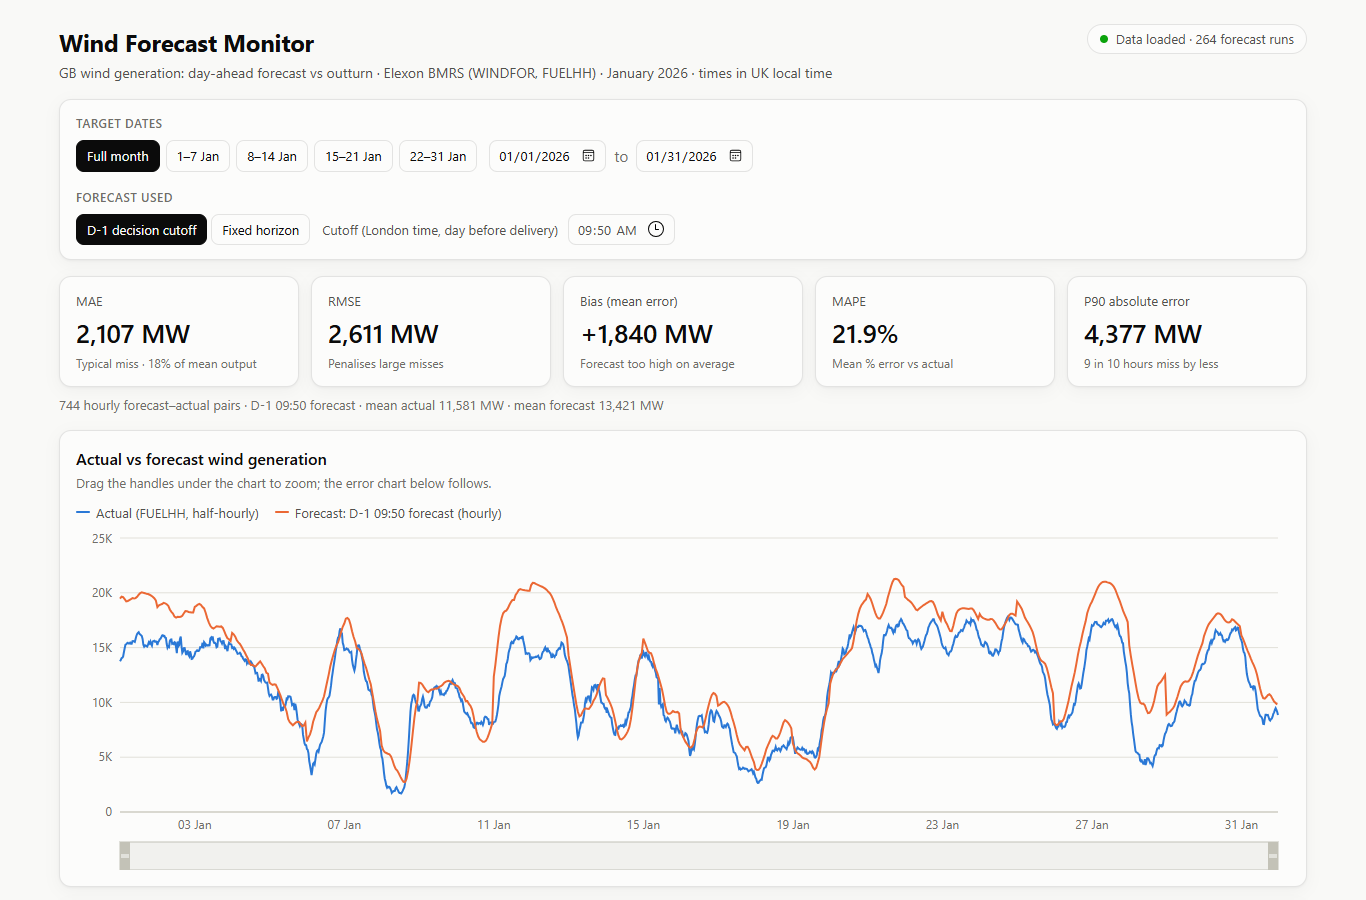
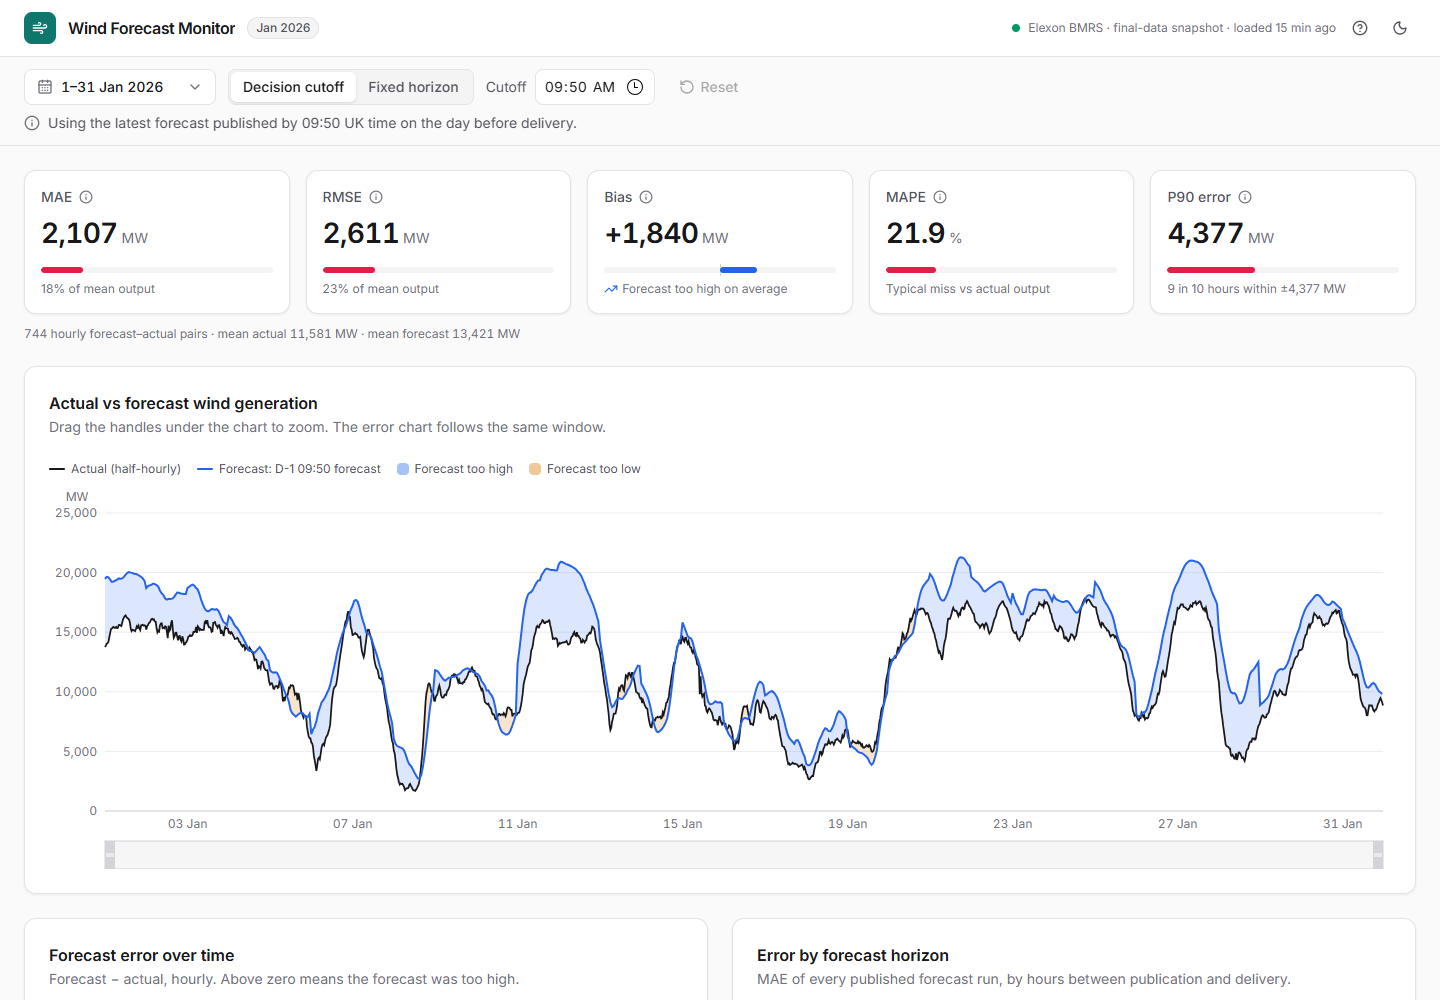
Update README for redesign, test suites, caching and Vercel deploy
Documents the dashboard, the e2e and Elexon verification suites, Lighthouse
results, the single-project Vercel setup (not yet deployed) and the new
environment variables; refreshes the screenshot. Excludes Playwright
artifacts from the frontend Docker context.

diff --git a/README.md b/README.md
@@ -17,6 +17,8 @@ Day-ahead power is bought on D-1 for delivery on day D. Wind output is the bigge
 1. **What did the wind forecast say when we had to decide?** (not a later, better forecast we could not have used)
 2. **How much can we trust it?** Typical error, bias, worst-case misses, and how error grows with lead time.
 
+The dashboard has a sticky filter bar (January-only date range, decision cutoff or fixed horizon, with a one-line summary of the active rule), five KPI cards with plain-English tooltips, an actual-vs-forecast hero chart with a shaded over/under band and brush zoom, error-over-time and error-by-lead-time charts, key insights, and a sortable, heat-shaded daily table with CSV export. Filters live in the URL, so views can be shared. Light and dark themes are available, and the layout works down to 375 px.
+
 ## 2. Decision-time logic
 
 **Data (Elexon BMRS, no other sources)**
@@ -59,32 +61,38 @@ Metrics are computed overall, per day (London date) and per lead-time bucket. Th
 
 ```
 .
-├── backend/                  FastAPI service (Python 3.11)
+├── api/index.py              Vercel Python entrypoint (serves backend/app for /api/*)
+├── backend/                  FastAPI service (Python 3.11+)
 │   ├── app/
-│   │   ├── main.py           Routes, validation, CORS, error handling
+│   │   ├── main.py           Routes, validation, CORS, gzip, Cache-Control, error handling
 │   │   ├── config.py         Settings (env vars) and fixed Jan-2026 scope
 │   │   ├── elexon.py         BMRS client: weekly chunking, retry with backoff
-│   │   ├── data_store.py     In-memory + gzipped-JSON disk cache
+│   │   ├── data_store.py     In-memory + gzipped-JSON disk cache (lazy-loaded on serverless)
+│   │   ├── cache.py          LRU of serialised responses (data is immutable once loaded)
 │   │   ├── forecasting.py    Cutoff / horizon selection, joins (DST-safe)
 │   │   ├── metrics.py        MAE, RMSE, bias, MAPE, P90, daily, by-horizon
 │   │   ├── insights.py       Plain-English takeaways
 │   │   ├── models.py         Pydantic response models
 │   │   └── refresh.py        CLI: re-fetch data from Elexon
 │   ├── data/                 Committed Jan-2026 snapshot (≈110 KB) for instant startup
-│   ├── tests/                pytest: selection, metrics, API, client retries
+│   ├── tests/                pytest: selection (incl. DST), metrics, API, edge cases, client retries
+│   ├── qa/verify_elexon.py   Independent check of a running API against raw Elexon data
 │   ├── Dockerfile, Procfile, requirements*.txt, .env.example
-├── frontend/                 React + Vite + TypeScript + Recharts
+├── frontend/                 React 19 + Vite + TypeScript + Tailwind + Radix + Recharts
 │   ├── src/
-│   │   ├── App.tsx           Page layout and state
+│   │   ├── App.tsx           Page composition and state
 │   │   ├── api.ts, types.ts  Typed API client
-│   │   ├── useDashboard.ts   Fetching (abortable, keeps data while refetching)
-│   │   ├── components/       Controls, MetricCards, ForecastChart, ErrorChart,
-│   │   │                     HorizonChart, Insights, DailyTable (CSV export)
-│   │   └── lib/              Formatting, CSV, axis helpers
-│   ├── Dockerfile, nginx.conf.template, vercel.json, .env.example
+│   │   ├── useDashboard.ts   Fetching (abortable, debounced, keeps data while refetching)
+│   │   ├── components/       TopBar, FilterBar, DateRangePicker, KpiRow, InsightsPanel,
+│   │   │                     DailyTable, Guide, States; charts/ (lazy); ui/ (Button, Card, ...)
+│   │   ├── lib/              Formatting, URL query state, theme prefs, CSV, axis helpers
+│   │   └── index.css         Design tokens (light/dark) for Tailwind
+│   ├── e2e/                  Playwright end-to-end tests
+│   ├── Dockerfile, nginx.conf.template, playwright.config.ts, .env.example
 ├── docs/                     Analysis summary, pitch and walkthrough scripts, screenshot
 ├── docker-compose.yml        Runs backend + frontend together
-├── render.yaml               Render blueprint for the API
+├── vercel.json               Single Vercel project: static frontend + Python API
+├── render.yaml               Alternative: Render blueprint for the API
 └── .env.example              All environment variables in one place
 ```
 
@@ -127,8 +135,8 @@ cd backend
 python -m venv .venv
 source .venv/bin/activate          # Windows: .venv\Scripts\activate
 pip install -r requirements-dev.txt
+cp .env.example .env               # optional
 uvicorn app.main:app --reload --port 8000
-pytest                             # 35 tests
 python -m app.refresh              # optional: re-fetch Jan-2026 data from Elexon
 ```
 
@@ -137,34 +145,47 @@ Frontend (Node 20.19+ or 22.12+):
 ```bash
 cd frontend
 npm install
+cp .env.example .env               # optional
 npm run dev                        # http://localhost:5173 (proxies /api to :8000)
 npm run build                      # type-check + production build
 ```
 
-## 7. Deploy (Vercel frontend + Render backend)
+### Tests
 
-1. **Push to GitHub.**
-   ```bash
-   git remote add origin https://github.com/<you>/wind-forecast-monitor.git
-   git push -u origin main
-   ```
-2. **Backend on Render.** Dashboard → **New → Blueprint** → pick the repo (uses `render.yaml`). Or **New → Web Service** with:
-   - Root directory `backend`, runtime **Python 3**
-   - Build `pip install -r requirements.txt`
-   - Start `uvicorn app.main:app --host 0.0.0.0 --port $PORT`
-   - Health check path `/api/health`
-   - Env vars: `PYTHON_VERSION=3.11.9`, `ALLOWED_ORIGINS=https://<your-app>.vercel.app` (fill in after step 3), optionally `ALLOWED_ORIGIN_REGEX=https://<your-app>-.*\.vercel\.app` for preview deploys.
+```bash
+# Backend unit + API tests (47)
+cd backend && pytest -v
 
-   Check that `https://<service>.onrender.com/api/health` returns `"status":"ok"`. (You can also choose the **Docker** runtime with `backend/Dockerfile`.)
-3. **Frontend on Vercel.** **Add New → Project** → import the repo, then:
-   - Root directory `frontend` (framework preset Vite, build `npm run build`, output `dist`)
-   - Env var `VITE_API_URL=https://<service>.onrender.com`
+# Independent end-to-end check of a running API against raw Elexon data
+# (re-implements selection and metrics without importing the app)
+python qa/verify_elexon.py http://localhost:8000
 
-   Or use the CLI: `cd frontend && vercel --prod` (set `VITE_API_URL` with `vercel env add VITE_API_URL production` first).
-4. Set `ALLOWED_ORIGINS` on Render to the final Vercel URL and redeploy the backend.
-5. Replace the **Live app** placeholder at the top of this README.
+# Frontend type-check and build
+cd frontend && npm run typecheck && npm run build
 
-**Heroku alternative for the backend:** `heroku create`, `heroku config:set ALLOWED_ORIGINS=https://<your-app>.vercel.app`, `git subtree push --prefix backend heroku main` (uses `backend/Procfile` and `.python-version`).
+# Playwright e2e (13): builds, starts `vite preview` + API if not running, tests the production bundle
+npx playwright install chromium    # once; or set PW_CHANNEL=msedge / chrome to use an installed browser
+E2E_PYTHON=../backend/.venv/bin/python npm run e2e      # Windows: ..\backend\.venv\Scripts\python
+E2E_BASE_URL=https://<deployment> npm run e2e           # run the same tests against any deployment
+```
+
+Lighthouse on the local production build scores Performance 95-98 on mobile and 92-97 on desktop, with Accessibility 100 and Best Practices 100.
+
+## 7. Deploy (Vercel, frontend and API in one project)
+
+> Not deployed yet. These steps are prepared and tested locally only.
+
+`vercel.json` builds the frontend from `frontend/` and serves the FastAPI app as one Python function (`api/index.py`) for every `/api/*` route. Site and API share an origin, so you don't need CORS settings or `VITE_API_URL`. API responses carry `Cache-Control: s-maxage=86400`, so Vercel's CDN serves repeat queries without invoking Python.
+
+1. Push the repo to GitHub (`git remote add origin …` and `git push -u origin main`).
+2. In Vercel: **Add New → Project** → import the repo. Keep the **root directory as the repo root**; `vercel.json` supplies the install, build and output settings. No environment variables are required.
+   Or from the CLI, in the repo root: `vercel` (preview), then `vercel --prod`.
+3. Check `https://<project>.vercel.app/api/health` returns `"status":"ok"` and the dashboard loads. Then run `E2E_BASE_URL=https://<project>.vercel.app npm run e2e` from `frontend/`.
+4. Replace the **Live app** placeholder at the top of this README.
+
+Expect a Python cold start of about 2-3 s (pandas import plus a 110 ms data load); after that, cached queries take about 10 ms.
+
+**Alternative (separate API host):** deploy `backend/` to Render (`render.yaml`, or a web service with root `backend`, build `pip install -r requirements.txt`, start `uvicorn app.main:app --host 0.0.0.0 --port $PORT`, health check `/api/health`, `PYTHON_VERSION=3.11.9`) or Heroku (`git subtree push --prefix backend heroku main`). Then deploy the frontend with root `frontend`, set `VITE_API_URL=https://<api-host>`, and set `ALLOWED_ORIGINS` (plus optional `ALLOWED_ORIGIN_REGEX` for preview URLs) on the API.
 
 ### Environment variables
 
@@ -177,8 +198,9 @@ npm run build                      # type-check + production build
 | `REQUEST_TIMEOUT_S`, `MAX_RETRIES` | backend | `30`, `4` | Elexon client behaviour (exponential backoff on 429/5xx/network errors) |
 | `DEFAULT_CUTOFF_HOUR`, `DEFAULT_CUTOFF_MINUTE` | backend | `9`, `50` | Default D-1 cutoff when the query omits it |
 | `MAPE_MIN_ACTUAL_MW` | backend | `1` | MAPE zero-guard threshold |
-| `PYTHON_VERSION` | Render | `3.11.9` | Python runtime on Render |
-| `VITE_API_URL` | frontend (build time) | empty | Backend base URL; empty = same-origin `/api` |
+| `PYTHON_VERSION` | Render only | `3.11.9` | Python runtime on Render (Vercel defaults to 3.12) |
+| `VITE_API_URL` | frontend (build time) | empty | Backend base URL; leave empty on Vercel/Docker (same-origin `/api`) |
+| `VITE_PROXY_TARGET` | frontend dev/preview | `http://localhost:8000` | Where the Vite dev/preview server proxies `/api` |
 | `BACKEND_URL` | frontend Docker | `http://backend:8000` | nginx `/api` proxy target |
 
 ## 8. Assumptions and limitations
@@ -201,8 +223,8 @@ Limitations:
 - **Definitions may differ between datasets.** FUELHH is metered output, including the effect of any curtailment, while WINDFOR is a forecast of generation. Part of the strong positive bias may reflect curtailment or differences in which wind farms each dataset covers, not only forecasting skill. This cannot be verified with Elexon wind data alone (per scope).
 - **MAPE is inflated on calm days** (e.g. 66% on 8 Jan, when mean output was 4.5 GW); prefer MAE/P90 for sizing.
 - **Static snapshot.** January 2026 is final, so the data is committed for speed and resilience; `python -m app.refresh` or `REFRESH_ON_STARTUP=true` re-fetches it.
-- **Free-tier hosting** (Render) sleeps when idle; the first request can take 30-60 s, and the UI shows a "waking up" message.
-- Docker images were written to standard patterns but **not built in the authoring environment** (Docker was unavailable there); the non-Docker path was run end to end.
+- **Cold starts.** Serverless or free-tier hosting adds 2-60 s to the first request after idle; the UI shows a "waking up" message after 4 s.
+- **Not yet verified on real infrastructure.** Docker images and the Vercel config follow standard patterns and were checked statically and by simulation (Docker wasn't available in the authoring environment, and nothing has been deployed yet). Run the e2e suite against the first real deployment.
 
 ## 9. AI assistance
 
